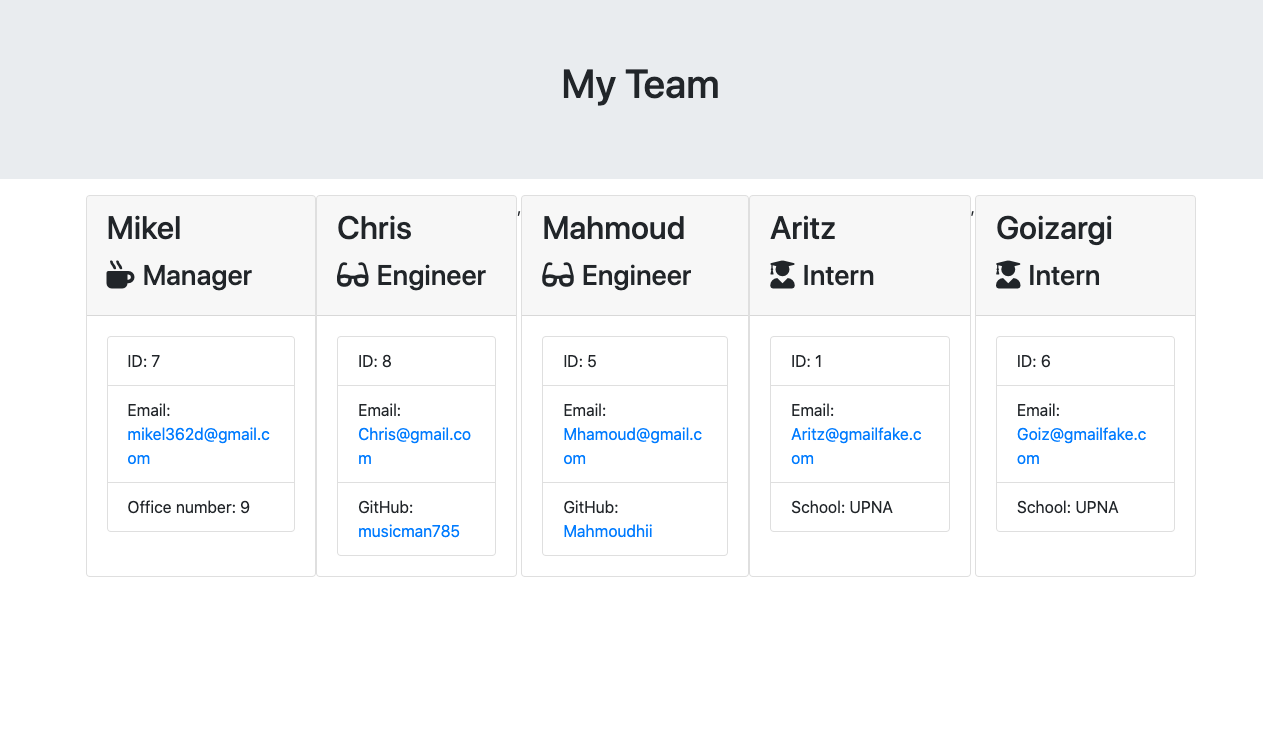
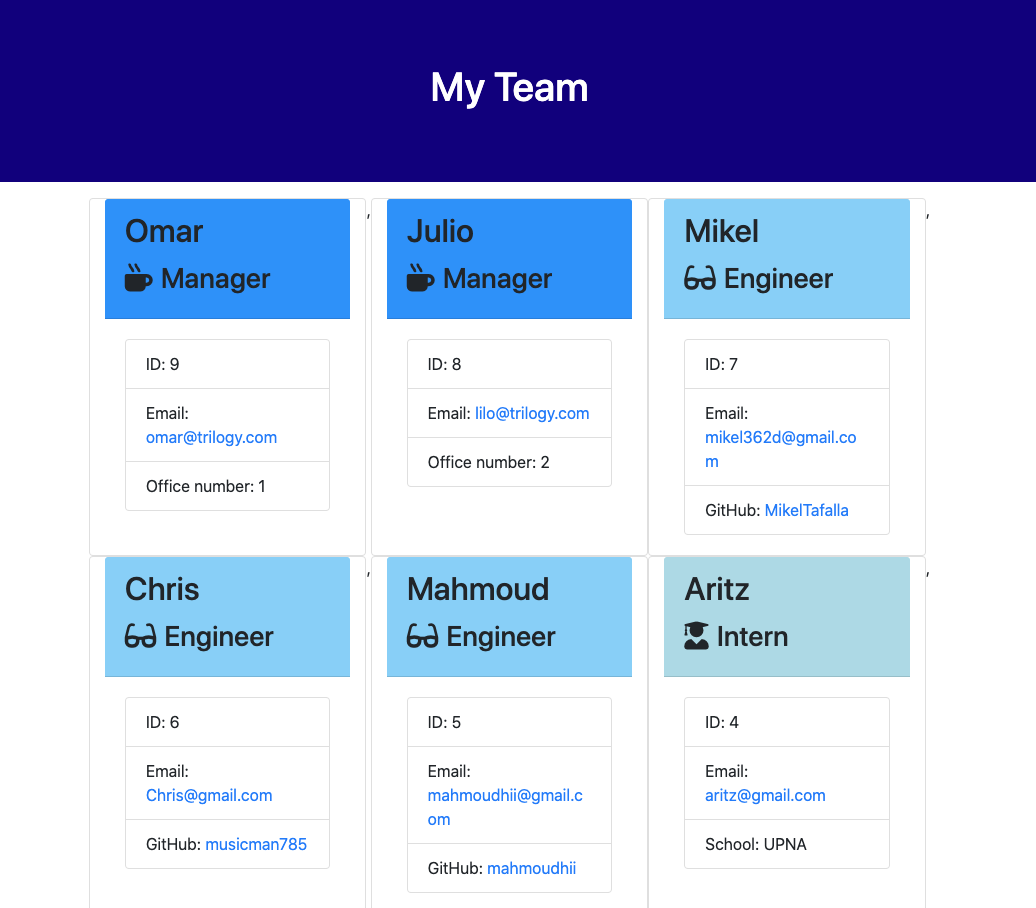
added css, new result picture in readMe, divide team.html cards in columns of 3cards

diff --git a/output/team.html b/output/team.html
@@ -8,49 +8,49 @@
     <title>My Team</title>
     <link rel="stylesheet" href="https://stackpath.bootstrapcdn.com/bootstrap/4.3.1/css/bootstrap.min.css"
         integrity="sha384-ggOyR0iXCbMQv3Xipma34MD+dH/1fQ784/j6cY/iJTQUOhcWr7x9JvoRxT2MZw1T" crossorigin="anonymous">
-    <link rel="stylesheet" href="style.css">
+    <link rel="stylesheet" href="../assets/css/style.css">
     <script src="https://kit.fontawesome.com/c502137733.js"></script>
 </head>
 
 <body>
     <div class="container-fluid">
         <div class="row">
-            <div class="col-12 jumbotron mb-3 team-heading">
+            <div class="col-12 jumbotron mb-3 team-heading header">
                 <h1 class="text-center">My Team</h1>
             </div>
         </div>
     </div>
     <div class="container">
         <div class="row">
-            <div class="team-area col-12 d-flex justify-content-center">
-                <div class="card employee-card">
-    <div class="card-header">
+            <div class="team-area col-12 d-flex flex-wrap justify-content-center">
+                <div class="card employee-card col-md-3">
+    <div class="card-header manager">
         <h2 class="card-title">Omar</h2>
         <h3 class="card-title"><i class="fas fa-mug-hot mr-2"></i>Manager</h3>
     </div>
     <div class="card-body">
         <ul class="list-group">
             <li class="list-group-item">ID: 9</li>
-            <li class="list-group-item">Email: <a href="mailto:Omar@fakegmail.com">Omar@fakegmail.com</a></li>
-            <li class="list-group-item">Office number: 3</li>
+            <li class="list-group-item">Email: <a href="mailto:omar@trilogy.com">omar@trilogy.com</a></li>
+            <li class="list-group-item">Office number: 1</li>
         </ul>
     </div>
 </div>
-<div class="card employee-card">
-    <div class="card-header">
-        <h2 class="card-title">Chris</h2>
-        <h3 class="card-title"><i class="fas fa-glasses mr-2"></i>Engineer</h3>
+,<div class="card employee-card col-md-3">
+    <div class="card-header manager">
+        <h2 class="card-title">Julio</h2>
+        <h3 class="card-title"><i class="fas fa-mug-hot mr-2"></i>Manager</h3>
     </div>
     <div class="card-body">
         <ul class="list-group">
-            <li class="list-group-item">ID: 5</li>
-            <li class="list-group-item">Email: <a href="mailto:chris@fakegmail.com">chris@fakegmail.com</a></li>
-            <li class="list-group-item">GitHub: <a href="https://github.com/musicman785" target="_blank" rel="noopener noreferrer">musicman785</a></li>
+            <li class="list-group-item">ID: 8</li>
+            <li class="list-group-item">Email: <a href="mailto:lilo@trilogy.com">lilo@trilogy.com</a></li>
+            <li class="list-group-item">Office number: 2</li>
         </ul>
     </div>
 </div>
-,<div class="card employee-card">
-    <div class="card-header">
+<div class="card employee-card col-md-3">
+    <div class="card-header engineer">
         <h2 class="card-title">Mikel</h2>
         <h3 class="card-title"><i class="fas fa-glasses mr-2"></i>Engineer</h3>
     </div>
@@ -62,28 +62,67 @@
         </ul>
     </div>
 </div>
-<div class="card employee-card">
-    <div class="card-header">
+,<div class="card employee-card col-md-3">
+    <div class="card-header engineer">
+        <h2 class="card-title">Chris</h2>
+        <h3 class="card-title"><i class="fas fa-glasses mr-2"></i>Engineer</h3>
+    </div>
+    <div class="card-body">
+        <ul class="list-group">
+            <li class="list-group-item">ID: 6</li>
+            <li class="list-group-item">Email: <a href="mailto:Chris@gmail.com">Chris@gmail.com</a></li>
+            <li class="list-group-item">GitHub: <a href="https://github.com/musicman785" target="_blank" rel="noopener noreferrer">musicman785</a></li>
+        </ul>
+    </div>
+</div>
+,<div class="card employee-card col-md-3">
+    <div class="card-header engineer">
+        <h2 class="card-title">Mahmoud</h2>
+        <h3 class="card-title"><i class="fas fa-glasses mr-2"></i>Engineer</h3>
+    </div>
+    <div class="card-body">
+        <ul class="list-group">
+            <li class="list-group-item">ID: 5</li>
+            <li class="list-group-item">Email: <a href="mailto:mahmoudhii@gmail.com">mahmoudhii@gmail.com</a></li>
+            <li class="list-group-item">GitHub: <a href="https://github.com/mahmoudhii" target="_blank" rel="noopener noreferrer">mahmoudhii</a></li>
+        </ul>
+    </div>
+</div>
+<div class="card employee-card col-md-3">
+    <div class="card-header intern">
         <h2 class="card-title">Aritz</h2>
         <h3 class="card-title"><i class="fas fa-user-graduate mr-2"></i>Intern</h3>
     </div>
     <div class="card-body">
         <ul class="list-group">
-            <li class="list-group-item">ID: 6</li>
-            <li class="list-group-item">Email: <a href="mailto:aritz@fakegmail.com">aritz@fakegmail.com</a></li>
+            <li class="list-group-item">ID: 4</li>
+            <li class="list-group-item">Email: <a href="mailto:aritz@gmail.com">aritz@gmail.com</a></li>
             <li class="list-group-item">School: UPNA</li>
         </ul>
     </div>
 </div>
-,<div class="card employee-card">
-    <div class="card-header">
+,<div class="card employee-card col-md-3">
+    <div class="card-header intern">
+        <h2 class="card-title">Goizargi</h2>
+        <h3 class="card-title"><i class="fas fa-user-graduate mr-2"></i>Intern</h3>
+    </div>
+    <div class="card-body">
+        <ul class="list-group">
+            <li class="list-group-item">ID: 3</li>
+            <li class="list-group-item">Email: <a href="mailto:goiz@gmail.com">goiz@gmail.com</a></li>
+            <li class="list-group-item">School: UCSB</li>
+        </ul>
+    </div>
+</div>
+,<div class="card employee-card col-md-3">
+    <div class="card-header intern">
         <h2 class="card-title">German</h2>
         <h3 class="card-title"><i class="fas fa-user-graduate mr-2"></i>Intern</h3>
     </div>
     <div class="card-body">
         <ul class="list-group">
-            <li class="list-group-item">ID: 8</li>
-            <li class="list-group-item">Email: <a href="mailto:german@fakegamil.com">german@fakegamil.com</a></li>
+            <li class="list-group-item">ID: 2</li>
+            <li class="list-group-item">Email: <a href="mailto:german@gmail.com">german@gmail.com</a></li>
             <li class="list-group-item">School: UCLA</li>
         </ul>
     </div>

diff --git a/templates/main.html b/templates/main.html
@@ -8,21 +8,21 @@
     <title>My Team</title>
     <link rel="stylesheet" href="https://stackpath.bootstrapcdn.com/bootstrap/4.3.1/css/bootstrap.min.css"
         integrity="sha384-ggOyR0iXCbMQv3Xipma34MD+dH/1fQ784/j6cY/iJTQUOhcWr7x9JvoRxT2MZw1T" crossorigin="anonymous">
-    <link rel="stylesheet" href="style.css">
+    <link rel="stylesheet" href="../assets/css/style.css">
     <script src="https://kit.fontawesome.com/c502137733.js"></script>
 </head>
 
 <body>
     <div class="container-fluid">
         <div class="row">
-            <div class="col-12 jumbotron mb-3 team-heading">
+            <div class="col-12 jumbotron mb-3 team-heading header">
                 <h1 class="text-center">My Team</h1>
             </div>
         </div>
     </div>
     <div class="container">
         <div class="row">
-            <div class="team-area col-12 d-flex justify-content-center">
+            <div class="team-area col-12 d-flex flex-wrap justify-content-center">
                 {{ team }}
             </div>
         </div>

diff --git a/templates/intern.html b/templates/intern.html
@@ -1,5 +1,5 @@
-<div class="card employee-card">
-    <div class="card-header">
+<div class="card employee-card col-md-3">
+    <div class="card-header intern">
         <h2 class="card-title">{{ name }}</h2>
         <h3 class="card-title"><i class="fas fa-user-graduate mr-2"></i>{{ role }}</h3>
     </div>

diff --git a/templates/engineer.html b/templates/engineer.html
@@ -1,5 +1,5 @@
-<div class="card employee-card">
-    <div class="card-header">
+<div class="card employee-card col-md-3">
+    <div class="card-header engineer">
         <h2 class="card-title">{{ name }}</h2>
         <h3 class="card-title"><i class="fas fa-glasses mr-2"></i>{{ role }}</h3>
     </div>

diff --git a/templates/manager.html b/templates/manager.html
@@ -1,5 +1,5 @@
-<div class="card employee-card">
-    <div class="card-header">
+<div class="card employee-card col-md-3">
+    <div class="card-header manager">
         <h2 class="card-title">{{ name }}</h2>
         <h3 class="card-title"><i class="fas fa-mug-hot mr-2"></i>{{ role }}</h3>
     </div>

diff --git a/assets/css/style.css b/assets/css/style.css
@@ -1,0 +1,13 @@
+.header {
+    background-color:navy;
+    color: white;
+}
+.manager {
+    background-color: #1E90FF;
+}
+.engineer {
+    background-color: #87CEFA;
+}
+.intern {
+    background-color: #ADD8E6;
+}
